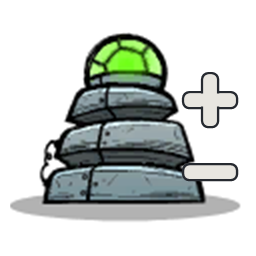
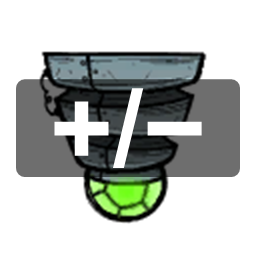
Add Steam Workshop publish setup (item 3797757617, uploaded hidden)

diff --git a/mods/motion-sensor-range/assets-src/PreviewGen/Program.cs b/mods/motion-sensor-range/assets-src/PreviewGen/Program.cs
@@ -27,6 +27,12 @@ internal static class Program
 				new Rectangle(int.Parse(args[3]), int.Parse(args[4]), int.Parse(args[5]), int.Parse(args[6])));
 			return;
 		}
+		if (args[0] == "chevrons")
+		{
+			ComposeChevrons(args[1], args[2],
+				new Rectangle(int.Parse(args[3]), int.Parse(args[4]), int.Parse(args[5]), int.Parse(args[6])));
+			return;
+		}
 		string inPath = args[0];
 		string outPath = args[1];
 		using var source = new Bitmap(inPath);
@@ -91,6 +97,20 @@ internal static class Program
 	{
 		const int canvas = 256;
 		using var source = new Bitmap(inPath);
+
+		// Copy the crop, erasing the translucent drop shadow (pure black, alpha <= ~80,
+		// bottom rows only) so it doesn't end up floating above the flipped sensor.
+		using var sprite = new Bitmap(crop.Width, crop.Height, PixelFormat.Format32bppArgb);
+		for (int y = 0; y < crop.Height; y++)
+			for (int x = 0; x < crop.Width; x++)
+			{
+				Color c = source.GetPixel(crop.X + x, crop.Y + y);
+				bool shadow = y >= crop.Height - 20 && c.A < 120 && c.R < 40 && c.G < 40 && c.B < 40;
+				if (c.A > 0 && !shadow)
+					sprite.SetPixel(x, y, c);
+			}
+		sprite.RotateFlip(RotateFlipType.RotateNoneFlipY);
+
 		using var final = new Bitmap(canvas, canvas, PixelFormat.Format32bppArgb);
 		using (var g = Graphics.FromImage(final))
 		{
@@ -100,13 +120,141 @@ internal static class Program
 			g.SmoothingMode = SmoothingMode.AntiAlias;
 			float scale = Math.Min((canvas - 20f) / crop.Width, (canvas - 20f) / crop.Height);
 			int w = (int)(crop.Width * scale), h = (int)(crop.Height * scale);
-			g.DrawImage(source, new Rectangle((canvas - w) / 2, (canvas - h) / 2, w, h), crop, GraphicsUnit.Pixel);
+			g.DrawImage(sprite, new Rectangle((canvas - w) / 2, (canvas - h) / 2, w, h),
+				new Rectangle(0, 0, sprite.Width, sprite.Height), GraphicsUnit.Pixel);
 
-			DrawPlus(g, canvas - 46f, 100f, 54f, 16f);
-			DrawMinus(g, canvas - 46f, 172f, 54f, 16f);
+			// "+/-" centered over the sensor, closed-caption style: white text on a
+			// semi-transparent black band for guaranteed contrast against the art.
+			using var path = new GraphicsPath();
+			path.AddString("+/−", new FontFamily("Arial"), (int)FontStyle.Bold, 108f,
+				new PointF(0f, 0f), StringFormat.GenericTypographic);
+			RectangleF bounds = path.GetBounds();
+			using var move = new Matrix();
+			move.Translate(canvas / 2f - bounds.X - bounds.Width / 2f, canvas / 2f - bounds.Y - bounds.Height / 2f);
+			path.Transform(move);
+			bounds = path.GetBounds();
+			var band = new RectangleF(16f, bounds.Y - 9f, canvas - 32f, bounds.Height + 18f);
+			using (var bandPath = RoundedRectF(band, 9f))
+			using (var bandFill = new SolidBrush(Color.FromArgb(145, 0, 0, 0)))
+				g.FillPath(bandFill, bandPath);
+			using var fill = new SolidBrush(Color.White);
+			g.FillPath(fill, path);
 		}
 		final.Save(outPath, ImageFormat.Png);
 		Console.WriteLine($"Wrote {outPath} ({canvas}x{canvas})");
+	}
+
+	/// <summary>
+	/// Alternate design: ceiling-mounted sensor on a dark grey background, flanked by
+	/// white "&lt;" and "&gt;" chevrons, no outline.
+	/// </summary>
+	private static void ComposeChevrons(string inPath, string outPath, Rectangle crop)
+	{
+		const int canvas = 256;
+		const float cornerRadius = 16f;
+		using var sprite = ExtractFlippedSprite(inPath, crop);
+		using var final = new Bitmap(canvas, canvas, PixelFormat.Format32bppArgb);
+		using (var g = Graphics.FromImage(final))
+		{
+			g.Clear(Color.Transparent);
+			g.InterpolationMode = InterpolationMode.HighQualityBicubic;
+			g.PixelOffsetMode = PixelOffsetMode.HighQuality;
+			g.SmoothingMode = SmoothingMode.AntiAlias;
+
+			var card = new RectangleF(1.5f, 1.5f, canvas - 3f, canvas - 3f);
+			using var cardPath = RoundedRectF(card, cornerRadius);
+			g.SetClip(cardPath);
+
+			// Radial background: lighter behind the sensor, darker toward the edges.
+			using (var bgEllipse = new GraphicsPath())
+			{
+				bgEllipse.AddEllipse(-60f, -80f, canvas + 120f, canvas + 140f);
+				using var bg = new PathGradientBrush(bgEllipse)
+				{
+					CenterColor = Color.FromArgb(78, 78, 82),
+					CenterPoint = new PointF(canvas / 2f, canvas * 0.42f),
+					SurroundColors = new[] { Color.FromArgb(40, 40, 43) },
+				};
+				g.FillRectangle(bg, 0, 0, canvas, canvas);
+			}
+
+			float scale = 150f / crop.Width;
+			int w = (int)(crop.Width * scale), h = (int)(crop.Height * scale);
+			int spriteLeft = (canvas - w) / 2;
+			int spriteTop = (canvas - h) / 2;
+
+			// Soft green detection glow below the dome.
+			using (var glowEllipse = new GraphicsPath())
+			{
+				glowEllipse.AddEllipse(canvas / 2f - 78f, spriteTop + h - 46f, 156f, 104f);
+				using var glow = new PathGradientBrush(glowEllipse)
+				{
+					CenterColor = Color.FromArgb(70, 130, 235, 90),
+					SurroundColors = new[] { Color.FromArgb(0, 130, 235, 90) },
+				};
+				g.FillPath(glow, glowEllipse);
+			}
+
+			g.DrawImage(sprite, new Rectangle(spriteLeft, spriteTop, w, h),
+				new Rectangle(0, 0, sprite.Width, sprite.Height), GraphicsUnit.Pixel);
+
+			// Bahnschrift Condensed has the tallest/thinnest chevrons of the installed
+			// fonts (1.56 height:width vs Arial's 1.11). Small drop shadows lift them.
+			using var shadow = new SolidBrush(Color.FromArgb(100, 0, 0, 0));
+			using var fill = new SolidBrush(Color.White);
+			float leftX = spriteLeft / 2f + 12f, rightX = canvas - spriteLeft / 2f - 12f, midY = canvas / 2f;
+			DrawCenteredText(g, shadow, "<", leftX + 2.5f, midY + 3f, "Bahnschrift Condensed", 150f);
+			DrawCenteredText(g, shadow, ">", rightX + 2.5f, midY + 3f, "Bahnschrift Condensed", 150f);
+			DrawCenteredText(g, fill, "<", leftX, midY, "Bahnschrift Condensed", 150f);
+			DrawCenteredText(g, fill, ">", rightX, midY, "Bahnschrift Condensed", 150f);
+
+			g.ResetClip();
+			using var border = new Pen(Color.White, 3f);
+			g.DrawPath(border, cardPath);
+		}
+		final.Save(outPath, ImageFormat.Png);
+		Console.WriteLine($"Wrote {outPath} ({canvas}x{canvas})");
+	}
+
+	private static void DrawCenteredText(Graphics g, Brush brush, string text, float cx, float cy,
+		string fontFamily = "Arial", float emSize = 100f)
+	{
+		using var path = new GraphicsPath();
+		path.AddString(text, new FontFamily(fontFamily), (int)FontStyle.Bold, emSize,
+			new PointF(0f, 0f), StringFormat.GenericTypographic);
+		RectangleF bounds = path.GetBounds();
+		using var move = new Matrix();
+		move.Translate(cx - bounds.X - bounds.Width / 2f, cy - bounds.Y - bounds.Height / 2f);
+		path.Transform(move);
+		g.FillPath(brush, path);
+	}
+
+	private static Bitmap ExtractFlippedSprite(string inPath, Rectangle crop)
+	{
+		using var source = new Bitmap(inPath);
+		var sprite = new Bitmap(crop.Width, crop.Height, PixelFormat.Format32bppArgb);
+		for (int y = 0; y < crop.Height; y++)
+			for (int x = 0; x < crop.Width; x++)
+			{
+				Color c = source.GetPixel(crop.X + x, crop.Y + y);
+				bool shadow = y >= crop.Height - 20 && c.A < 120 && c.R < 40 && c.G < 40 && c.B < 40;
+				if (c.A > 0 && !shadow)
+					sprite.SetPixel(x, y, c);
+			}
+		sprite.RotateFlip(RotateFlipType.RotateNoneFlipY);
+		return sprite;
+	}
+
+	private static GraphicsPath RoundedRectF(RectangleF r, float radius)
+	{
+		float d = radius * 2f;
+		var path = new GraphicsPath();
+		path.AddArc(r.X, r.Y, d, d, 180f, 90f);
+		path.AddArc(r.Right - d, r.Y, d, d, 270f, 90f);
+		path.AddArc(r.Right - d, r.Bottom - d, d, d, 0f, 90f);
+		path.AddArc(r.X, r.Bottom - d, d, d, 90f, 90f);
+		path.CloseFigure();
+		return path;
 	}
 
 	private static int DeMix(int channel, int background, float alpha)
